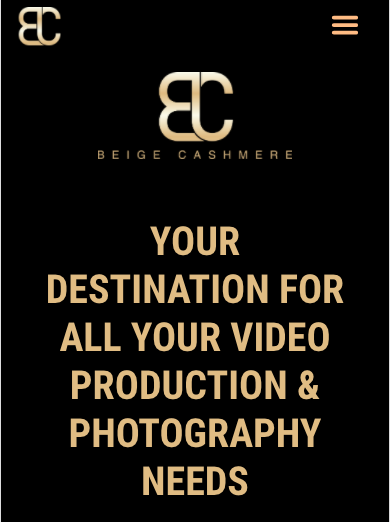
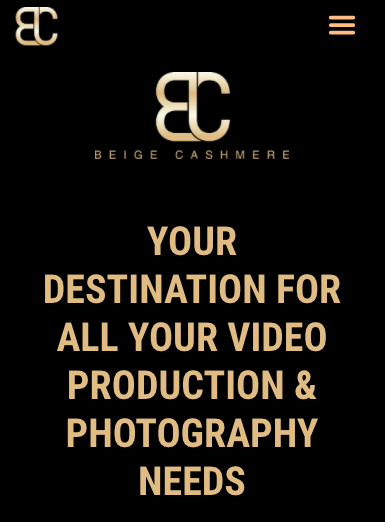
Created new item for the Netflix clone, cleaned up the BC Picture, Cleaned up the CSS on the Projects divfor better view

diff --git a/src/components/Projects.jsx b/src/components/Projects.jsx
@@ -50,7 +50,7 @@ function Projects(props) {
                       API and scores user's responses! User can gain upto 10
                       points before choosing to endgame or restart. How many
                       points can you gain? Click the 👉🏼 to go to the app or GitHub
-                    to see the code on GitHub!{" "}
+                      to see the code on GitHub!{" "}
                     </p>
                     <p>
                       Technologies used: HTML, CSS, JavaScript, JQuery, AJAX, & GitHub Pages.
@@ -77,7 +77,7 @@ function Projects(props) {
                       {" "}
                       <span className="applink" role="img" aria-label="Link">
                         👉🏼
-                    </span>{" "}
+                      </span>{" "}
                     </a>
                   </div>
                 </div>
@@ -103,7 +103,7 @@ function Projects(props) {
                       the store! This community is built to allow collaboration
                       between artists and finds a better home for un-used items
                       rather than throwing them away! Click the 👉🏼 to go to the
-                    app or GitHub to see the code on GitHub!{" "}
+                      app or GitHub to see the code on GitHub!{" "}
                     </p>
                     <p>
                       Technologies used: HTML, CSS, JavaScript, EJS, MongoDB, Axios, GitHub, & Heroku
@@ -153,11 +153,11 @@ function Projects(props) {
                       feature that allows the user to pick a random book of their
                       favorite category from New York Times - Best Seller's list.!
                       Click the 👉🏼 to go to the app or GitHub to see the code on
-                    GitHub!{" "}
+                      GitHub!{" "}
                     </p>
                     <p>
                       Technologies used: HTML, CSS, ReactJS, Google Books & New York Time Bestseller API, NodeJS, MongoDB, Heroku.
-                  </p>
+                    </p>
                   </div>
 
                   <a
@@ -200,12 +200,12 @@ function Projects(props) {
                   <div className="flip-card-back-text">
                     <p>
                       Beige Cashmere is your destination for all your video production & photography needs! Click the 👉🏼 to go to the website or GitHub
-                    to see the code on GitHub!{" "}
+                      to see the code on GitHub!{" "}
 
                     </p>
                     <p>
                       Technologies used: HTML, CSS, ReactJS, GitHub, Vimeo Integration, Email Integration, & Heroku
-                  </p>
+                    </p>
                   </div>
 
                   <a
@@ -234,22 +234,24 @@ function Projects(props) {
               </div>
             </div>
           </div>
-          {/* <div className="projectCardDiv">
+          <div className="projectCardDiv">
             <div className="flip-picture">
               <div className="flip-card-inner">
                 <div className="flip-card-front">
                   <img
-                    src="picngoimg.png"
+                    src="Netflix_Clone.png"
                     className="project-thumbnail"
                     alt="project thumbnail"
                   />
                 </div>
                 <div className="flip-card-back">
                   <p className="flip-card-back-text">
-                    The PIC-N-GO web application posseses a massive gallery of images generated from the Flickr API. It allows users create a personal account and search for pictures of destinations they want to visit, write notes on the picture for future use, and add them to their own personal bucket list. Click the 👉🏼 to go to the app or GitHub to see the code on GitHub!{" "}
+                    The Netflix web application posseses a massive library of movies whose thumbnails and banners are aggregated from the image.tmdb.org API. It uses movie information provided by image.tmdb.org API in conjunction with api.themoviedb.org API to retrieve movie's trailer if available on YouTube. Click the <span className="applink" role="img" aria-label="Link">
+                      👉🏼
+                    </span> to go to the app or GitHub to see the code on GitHub!{" "}
                   </p>
                   <a
-                    href="https://github.com/alirizvi061/pic-n-go"
+                    href="https://github.com/alirizvi061/fe-netflix"
                     target="_blank"
                     rel="noopener noreferrer"
                   >
@@ -257,14 +259,14 @@ function Projects(props) {
                       className="gitLink"
                       src="github-logo.png"
                       alt="github logo"
-                    />{" "}
+                    />
                   </a>
                   <a
-                    href="https://pic-n-go.herokuapp.com/home"
+                    href="https://netflix-clone-b650e.web.app/"
                     target="_blank"
                     rel="noopener noreferrer"
                   >
-                    {" "}
+
                     <span className="applink" role="img" aria-label="Link">
                       👉🏼
                     </span>{" "}
@@ -272,15 +274,16 @@ function Projects(props) {
                 </div>
               </div>
             </div>
-          </div> */}
+          </div>
         </div>
+
 
 
         <div>
           <div className="skillsDiv">
             <h1 id="skills" className=" skillsTitle display-3 p-5 text-lg-left">
               Skills
-          </h1>
+            </h1>
           </div>
           <br />
           {images.map((row, index) => {

diff --git a/src/App.css b/src/App.css
@@ -8,8 +8,11 @@ body {
   font-family: "Dosis", sans-serif;
   background-color: #1d1d1d;
   color: white;
+  padding-right: 8em; 
+  padding-left: 8em;
+  /* padding: 50%;
   margin-right: 9rem;
-  margin-left: 70px;
+  margin-left: 70px; */
 }
 
 /* Navigation */
@@ -156,18 +159,21 @@ body {
 }
 
 .project-thumbnail {
-  border-radius: 5px;
-  width: 300px;
+  width: 100%;
   height: 420px;
-  box-shadow: inset 0 1px 0 rgba(255, 255, 255, 0.6),
-    0 22px 70px 4px rgba(0, 0, 0, 0.3), 0 0 0 1px rgba(0, 0, 0, 0.3);
+  /*box-shadow: inset 0 1px 0 rgba(255, 255, 255, 0.6),
+    0 22px 70px 4px rgba(0, 0, 0, 0.3), 0 0 0 1px rgba(0, 0, 0, 0.3); */
 }
 
 .projects {
-  display: inline-flex;
+  display:flex;
+  justify-content: space-evenly;
+  flex-wrap: wrap;
+  width: 95%;
+  /* display: inline-flex;
   flex-direction: row;
   justify-content: space-around;
-  width: 90vw;
+  width: 90vw; */
 }
 
 .flip-picture {

diff --git a/src/components/About.jsx b/src/components/About.jsx
@@ -11,7 +11,7 @@ class About extends Component {
             My name is Ali Rizvi, I am a full stack developer and a creative who is in love with creating
             new things, whether it's original music, puzzles, or beautiful software
             applications... you name it I'll figure out how to make it! I consistently push myself to focus on honing my full-stack development skills by building
-            applications using various technologies. Check out my <a href="/work">Projects</a> page for more info!
+            applications using various technologies. Check out my <a href="/work">projects</a> page for more info!
           </p>
           <img src={Picture} className="profilePic" alt="profile" />
         </div>

diff --git a/src/components/Contact.jsx b/src/components/Contact.jsx
@@ -20,6 +20,7 @@ export default class Contact extends Component {
                 });
         }
 
+
         return (
             <div>
                 <h1 className="aboutTitle">Contact Me!</h1>
